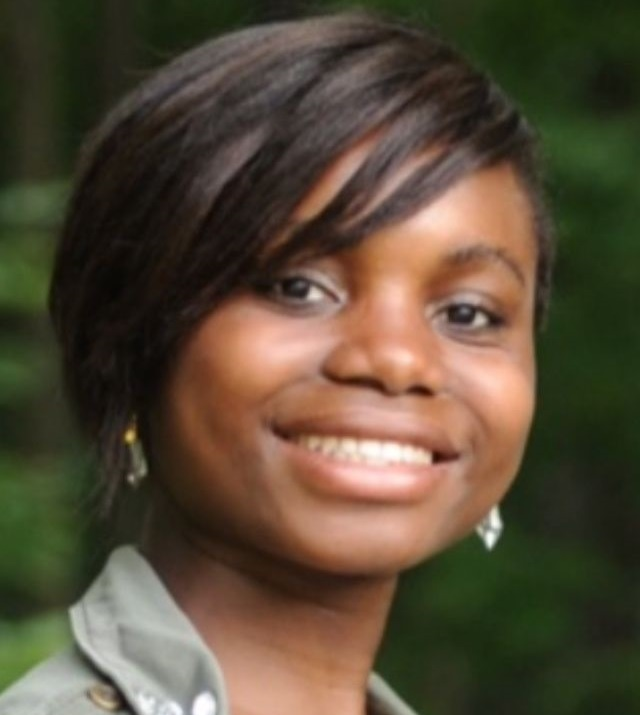
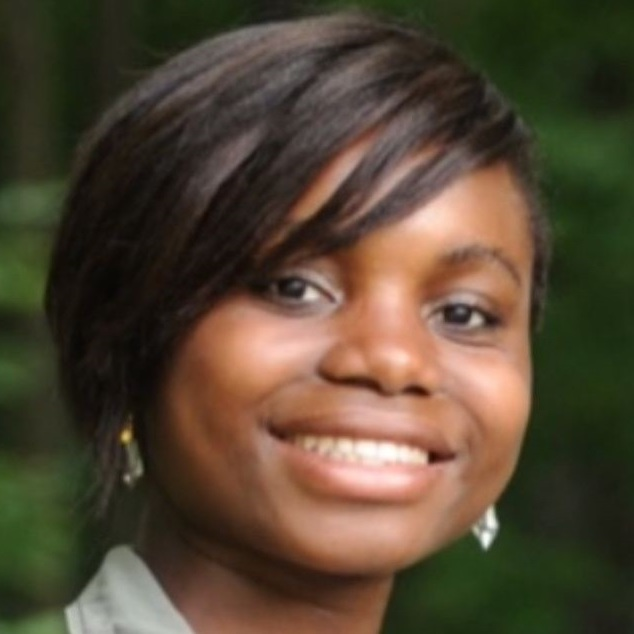
Fix alignment of students images & text at certain screensizes. See: https://imgur.com/a/rbnEGFp Crop student & team images to square so they appear rounded properly.

diff --git a/main.css b/main.css
@@ -306,7 +306,8 @@ body {
   padding-left: 35px;
   padding-right: 35px;
   padding-bottom: 20px;
-  max-width: 300px;
+  width: 300px;
+  max-width: 100%;
  }
 
  .moduleZero {
